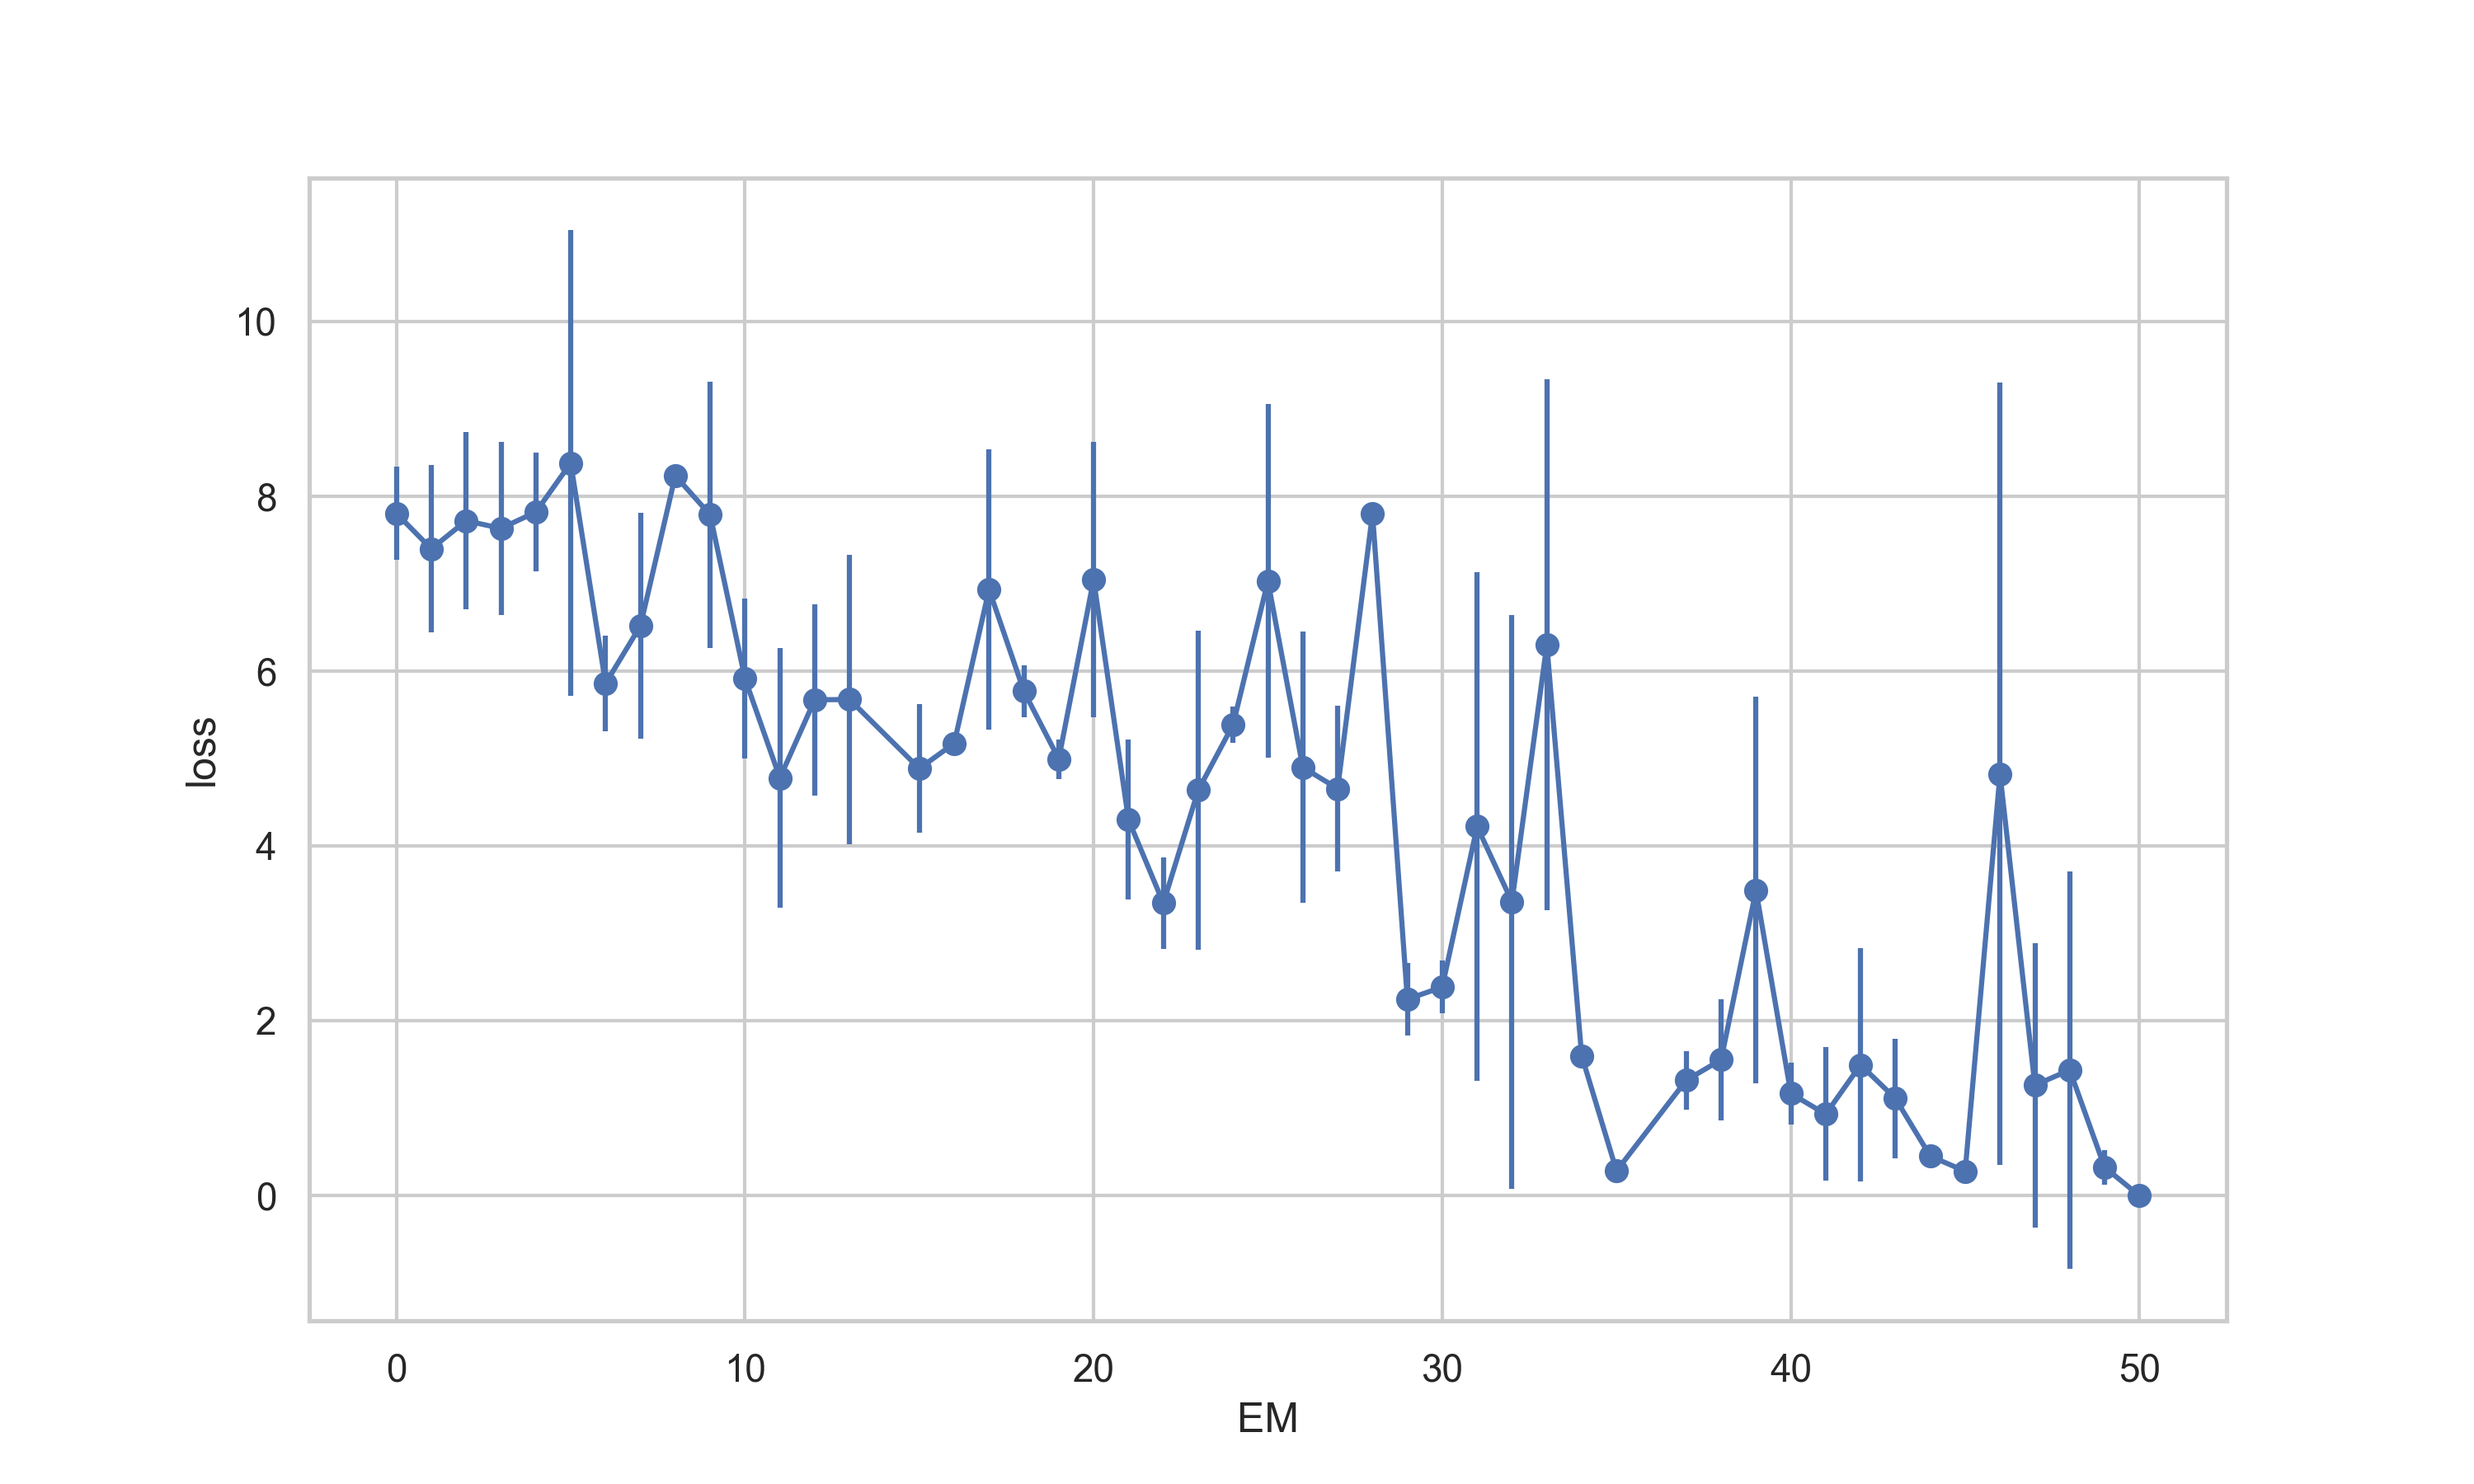
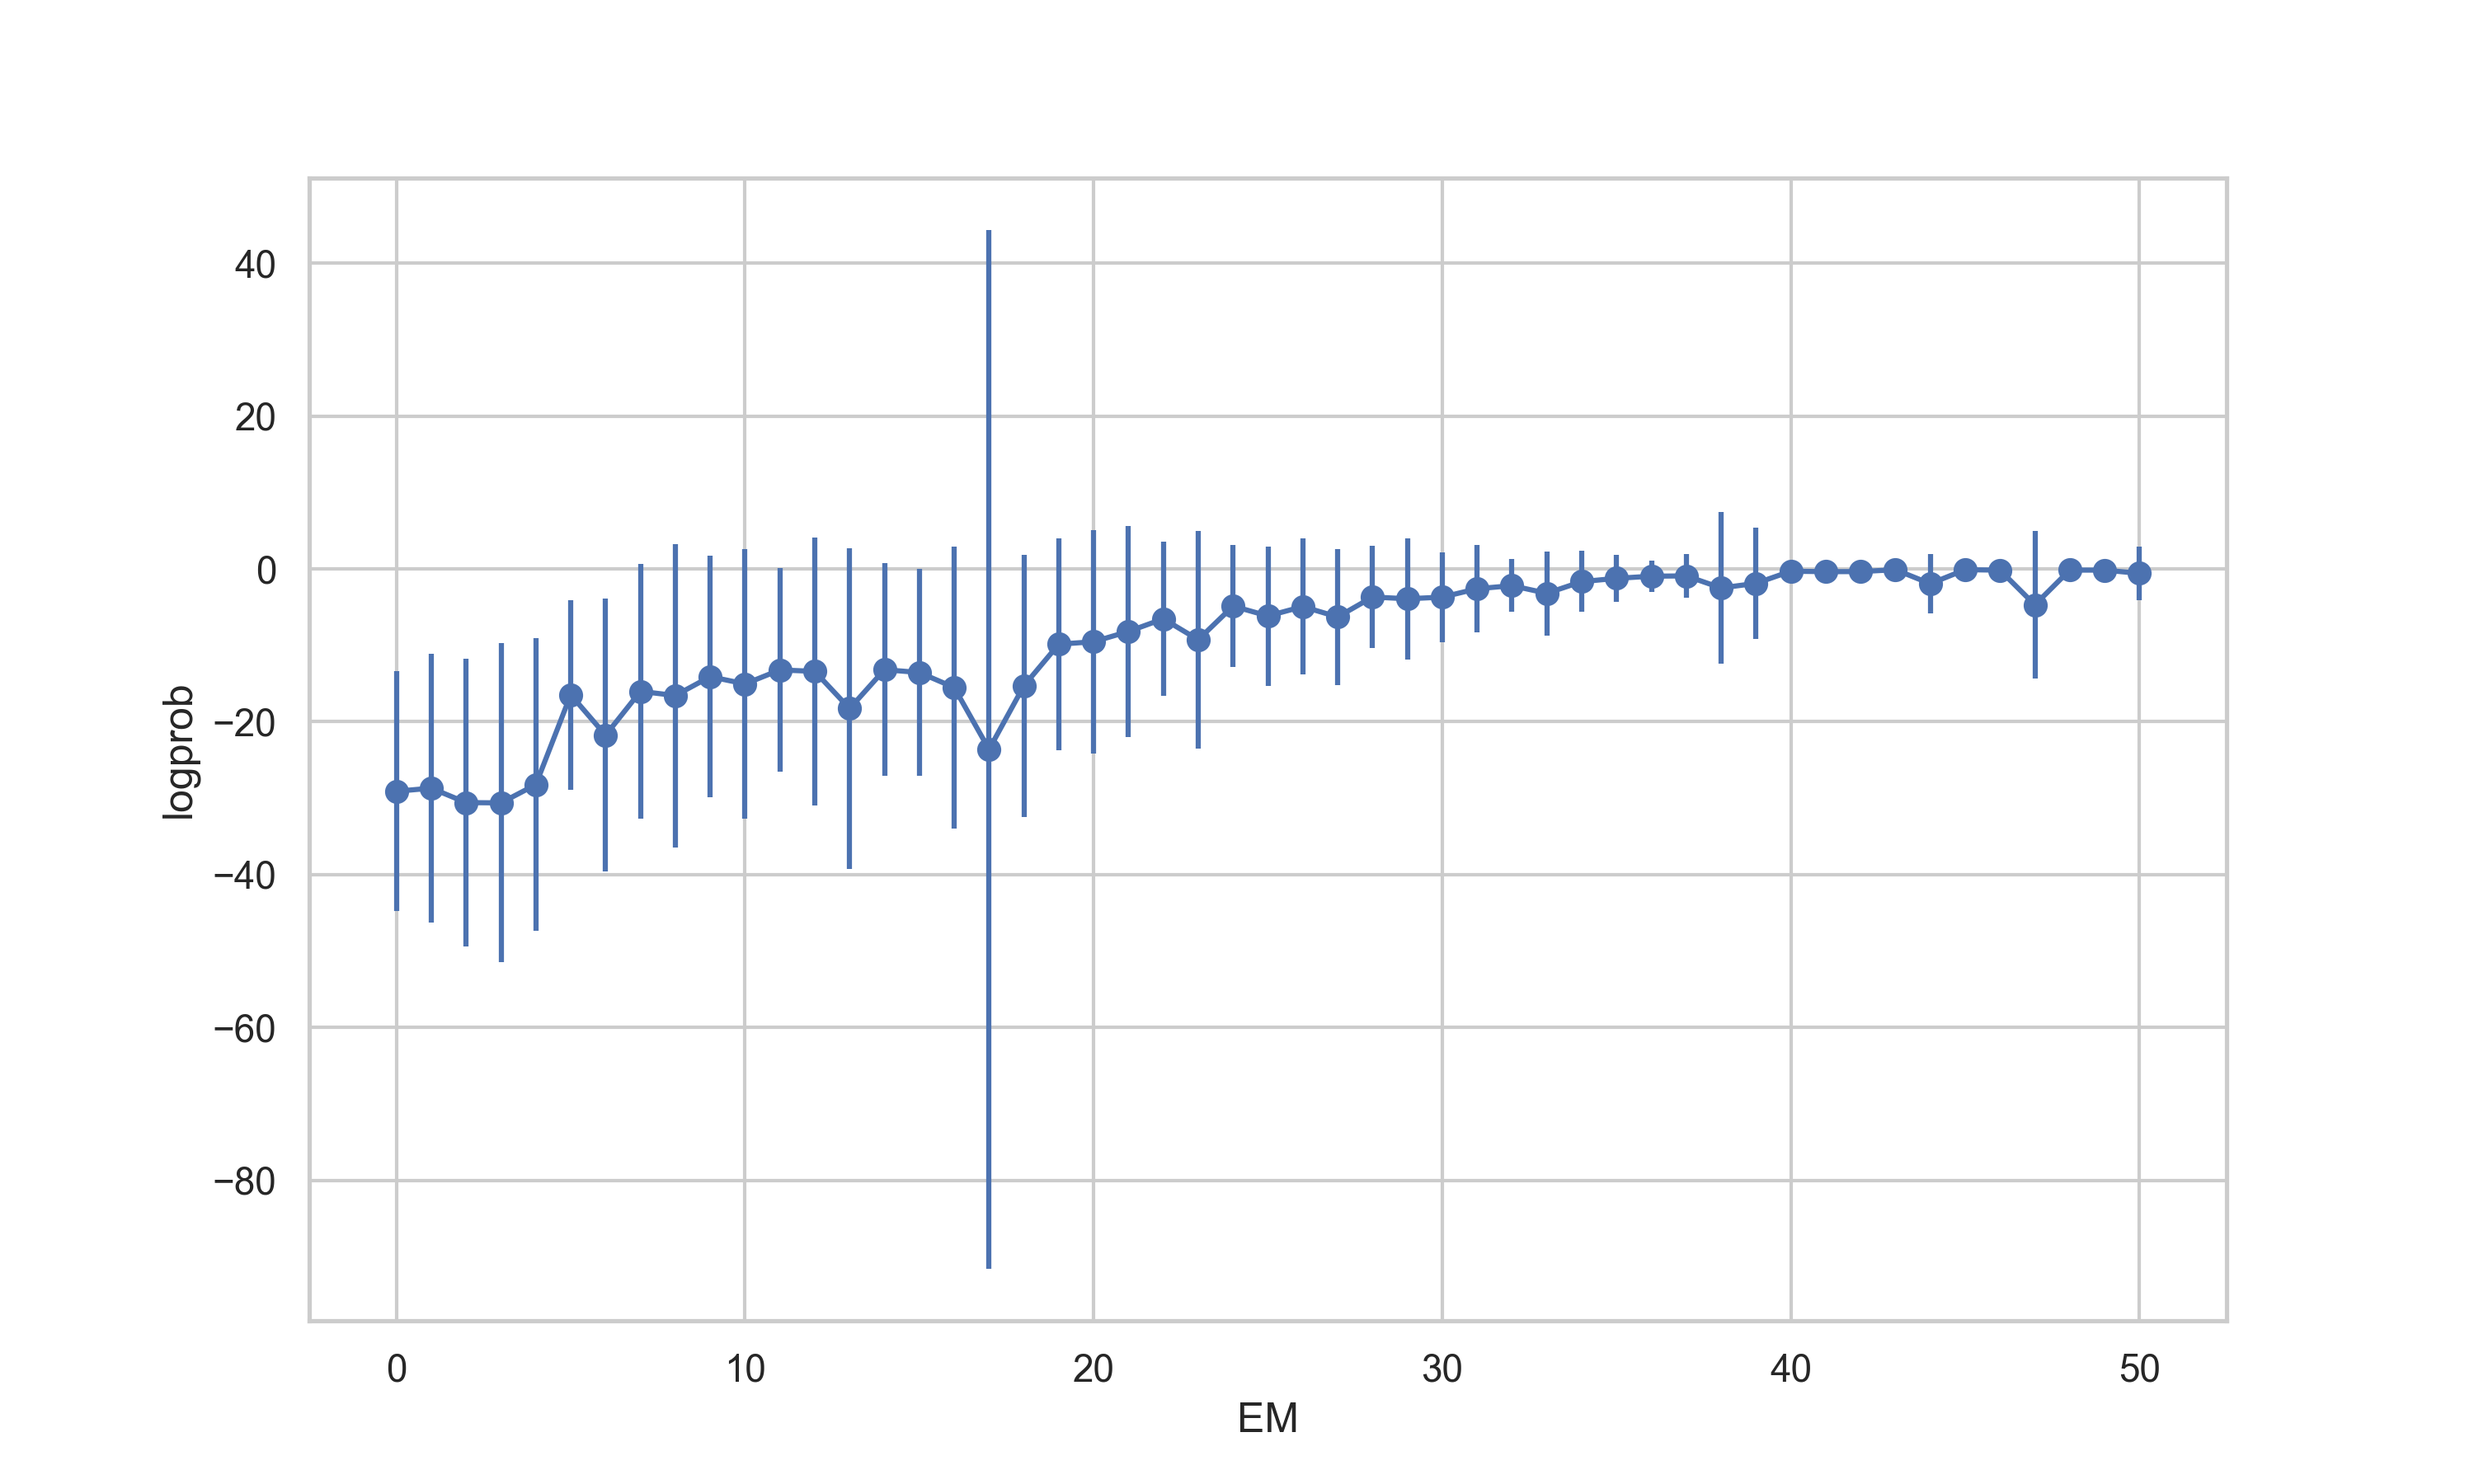
sentence embeddings

diff --git a/visualize.py b/visualize.py
@@ -12,93 +12,96 @@ plt.ion()
 learning_logs = json.load(open("out/learning_log_125m.json"))
 
 # best loss for each EM
-best_losses = collections.defaultdict(list)
+best_logprobs = collections.defaultdict(list)
 best_pls = collections.defaultdict(list)
-pile_losses = collections.defaultdict(list)
-non_pile_losses = collections.defaultdict(list)
+pile_logprobs = collections.defaultdict(list)
+non_pile_logprobs = collections.defaultdict(list)
+pl_1_logprobs = collections.defaultdict(list)
 pile_ranges = []
 non_pile_ranges = []
 ems = [[], []]
 for log in learning_logs:
     em = log["em"]
-    losses = [l["loss"] for l in log["learning_log"]]
+    logprobs = [l["logprob"] for l in log["learning_log"]]
     pls = [l["prefix_len"] for l in log["learning_log"]]
     origin = log["origin"]
 
-    range = np.max(losses) - np.min(losses)
+    range = np.max(logprobs) - np.min(logprobs)
 
-    best_loss_idx = np.argmin(losses)
+    best_logprob_idx = np.argmax(logprobs)
 
-    best_losses[em].append(losses[best_loss_idx])
-    best_pls[em].append(pls[best_loss_idx])
+    best_logprobs[em].append(logprobs[best_logprob_idx])
+    best_pls[em].append(pls[best_logprob_idx])
+    pl_1_logprobs[em].append(logprobs[0])
     if origin == "pile":
-        add_to = pile_losses
+        add_to = pile_logprobs
         pile_ranges.append(range)
-        # if em > 8:
-        #     continue
     else:
-        add_to = non_pile_losses
+        add_to = non_pile_logprobs
         non_pile_ranges.append(range)
-    for pl, loss in zip(pls, losses):
-        add_to[pl].append(loss)
+    for pl, logprob in zip(pls, logprobs):
+        add_to[pl].append(logprob)
 
 
 print(f"Average pile EM: {np.mean(ems[0])}, std: {np.std(ems[0])}")
 print(f"Average non-pile EM: {np.mean(ems[1])}, std: {np.std(ems[1])}")
 
-for k, v in best_losses.items():
-    best_losses[k] = (np.mean(v), np.std(v))
+for k, v in best_logprobs.items():
+    best_logprobs[k] = (np.mean(v), np.std(v))
+
+for k, v in pl_1_logprobs.items():
+    pl_1_logprobs[k] = (np.mean(v), np.std(v))
 
 for k, v in best_pls.items():
     best_pls[k] = (np.mean(v), np.std(v))
 
-# line plot the best loss for each EM
+# line plot the best logprob for each EM
 plt.figure(figsize=(10, 6))
 
-k = np.array(list(best_losses.keys()))
-v = np.array(list(best_losses.values()))
+k = np.array(list(pl_1_logprobs.keys()))
+v = np.array(list(pl_1_logprobs.values()))
 idx = np.argsort(k)
 
-plt.errorbar(k[idx], v[idx, 0], yerr=v[idx, 1], marker="o", label="best loss")
+plt.errorbar(k[idx], v[idx, 0], yerr=v[idx, 1], marker="o", label="best logprob")
 
 plt.xlabel("EM")
-plt.ylabel("loss")
+plt.ylabel("logprob")
 plt.savefig("em_pl_loss.png", dpi=300)
 plt.show()
 
 # line plot the best prefix length for each EM
+# plt.figure(figsize=(10, 6))
+
+# k = np.array(list(best_pls.keys()))
+# v = np.array(list(best_pls.values()))
+# idx = np.argsort(k)
+
+# plt.errorbar(k[idx], v[idx, 0], yerr=v[idx, 1], marker="o", label="best prefix length")
+
+# plt.xlabel("EM")
+# plt.ylabel("prefix length")
+# plt.show()
+
+# plot the logprob in the pile and non-pile samples
 plt.figure(figsize=(10, 6))
 
-k = np.array(list(best_pls.keys()))
-v = np.array(list(best_pls.values()))
-idx = np.argsort(k)
+pile_logprobs = {k: (np.mean(v), np.std(v)) for k, v in pile_logprobs.items()}
+non_pile_logprobs = {k: (np.mean(v), np.std(v)) for k, v in non_pile_logprobs.items()}
 
-plt.errorbar(k[idx], v[idx, 0], yerr=v[idx, 1], marker="o", label="best prefix length")
-
-plt.xlabel("EM")
-plt.ylabel("prefix length")
-plt.show()
-
-# plot the loss in the pile and non-pile samples
-plt.figure(figsize=(10, 6))
-
-pile_losses = {k: (np.mean(v), np.std(v)) for k, v in pile_losses.items()}
-non_pile_losses = {k: (np.mean(v), np.std(v)) for k, v in non_pile_losses.items()}
-
-k = np.array(list(pile_losses.keys()))
-v = np.array(list(pile_losses.values()))
+k = np.array(list(pile_logprobs.keys()))
+v = np.array(list(pile_logprobs.values()))
 idx = np.argsort(k)
 
 plt.errorbar(k[idx], v[idx, 0], yerr=v[idx, 1], marker="o", label="pile")
 
-k = np.array(list(non_pile_losses.keys()))
-v = np.array(list(non_pile_losses.values()))
+k = np.array(list(non_pile_logprobs.keys()))
+v = np.array(list(non_pile_logprobs.values()))
 idx = np.argsort(k)
 
 plt.errorbar(k[idx], v[idx, 0], yerr=v[idx, 1], marker="o", label="non-pile")
 
 plt.xlabel("prefix length")
-plt.ylabel("loss")
+plt.ylabel("logprob")
 plt.legend()
 plt.show()
 

diff --git a/sentence_embeddings.py b/sentence_embeddings.py
@@ -1,0 +1,74 @@
+"""
+File: sentence_embeddings.py
+----------------------------
+
+Compute sentence embeddings using the prefix learner and try it out on the
+sentence similarity task.
+"""
+from datasets import load_dataset
+import argparse
+import torch
+import wandb
+from learn_recall_prefix import PrefixLearner
+from tqdm import tqdm
+import json
+
+def main(args):
+    data = load_dataset("embedding-data/SPECTER")
+    learner = PrefixLearner(args.model)
+    data = data["train"]
+
+    out = []
+
+    # compute sentence embeddings
+    for i in tqdm(range(len(data))):
+        x = data[i]["set"]
+        query, pos, neg = x
+
+        # get embeddings for each
+        emb, ll = learner.learn_prefix(query, min_recall_tokens=1, max_recall_tokens=1)
+        query_emb = emb[-1]
+        query_logprob = ll[-1].logprob
+
+        emb, ll = learner.learn_prefix(pos, min_recall_tokens=1, max_recall_tokens=1)
+        pos_emb = emb[-1]
+        pos_logprob = ll[-1].logprob
+
+        emb, ll = learner.learn_prefix(neg, min_recall_tokens=1, max_recall_tokens=1)
+        neg_emb = emb[-1]
+        neg_logprob = ll[-1].logprob
+
+        # normalize embeddings
+        query_emb = query_emb / torch.norm(query_emb)
+        pos_emb = pos_emb / torch.norm(pos_emb)
+        neg_emb = neg_emb / torch.norm(neg_emb)
+
+        # compute cosine similarity
+        pos_sim = torch.dot(query_emb, pos_emb)
+        neg_sim = torch.dot(query_emb, neg_emb)
+
+        record = {
+            "query": query,
+            "pos": pos,
+            "neg": neg,
+            "query_logprob": query_logprob.item(),
+            "pos_logprob": pos_logprob.item(),
+            "neg_logprob": neg_logprob.item(),
+            "pos_sim": pos_sim.item(),
+            "neg_sim": neg_sim.item(),
+        }
+
+        wandb.log(record)
+        out.append(record)
+
+        with open(args.out, "w") as f:
+            json.dump(out, f, indent=2)
+
+
+if __name__ == "__main__":
+    parser = argparse.ArgumentParser()
+    parser.add_argument("--model", type=str, default="EleutherAI/gpt-neo-2.7B")
+    parser.add_argument("--out", type=str, default="sentence_embeddings.json")
+    args = parser.parse_args()
+
+    main(args)
